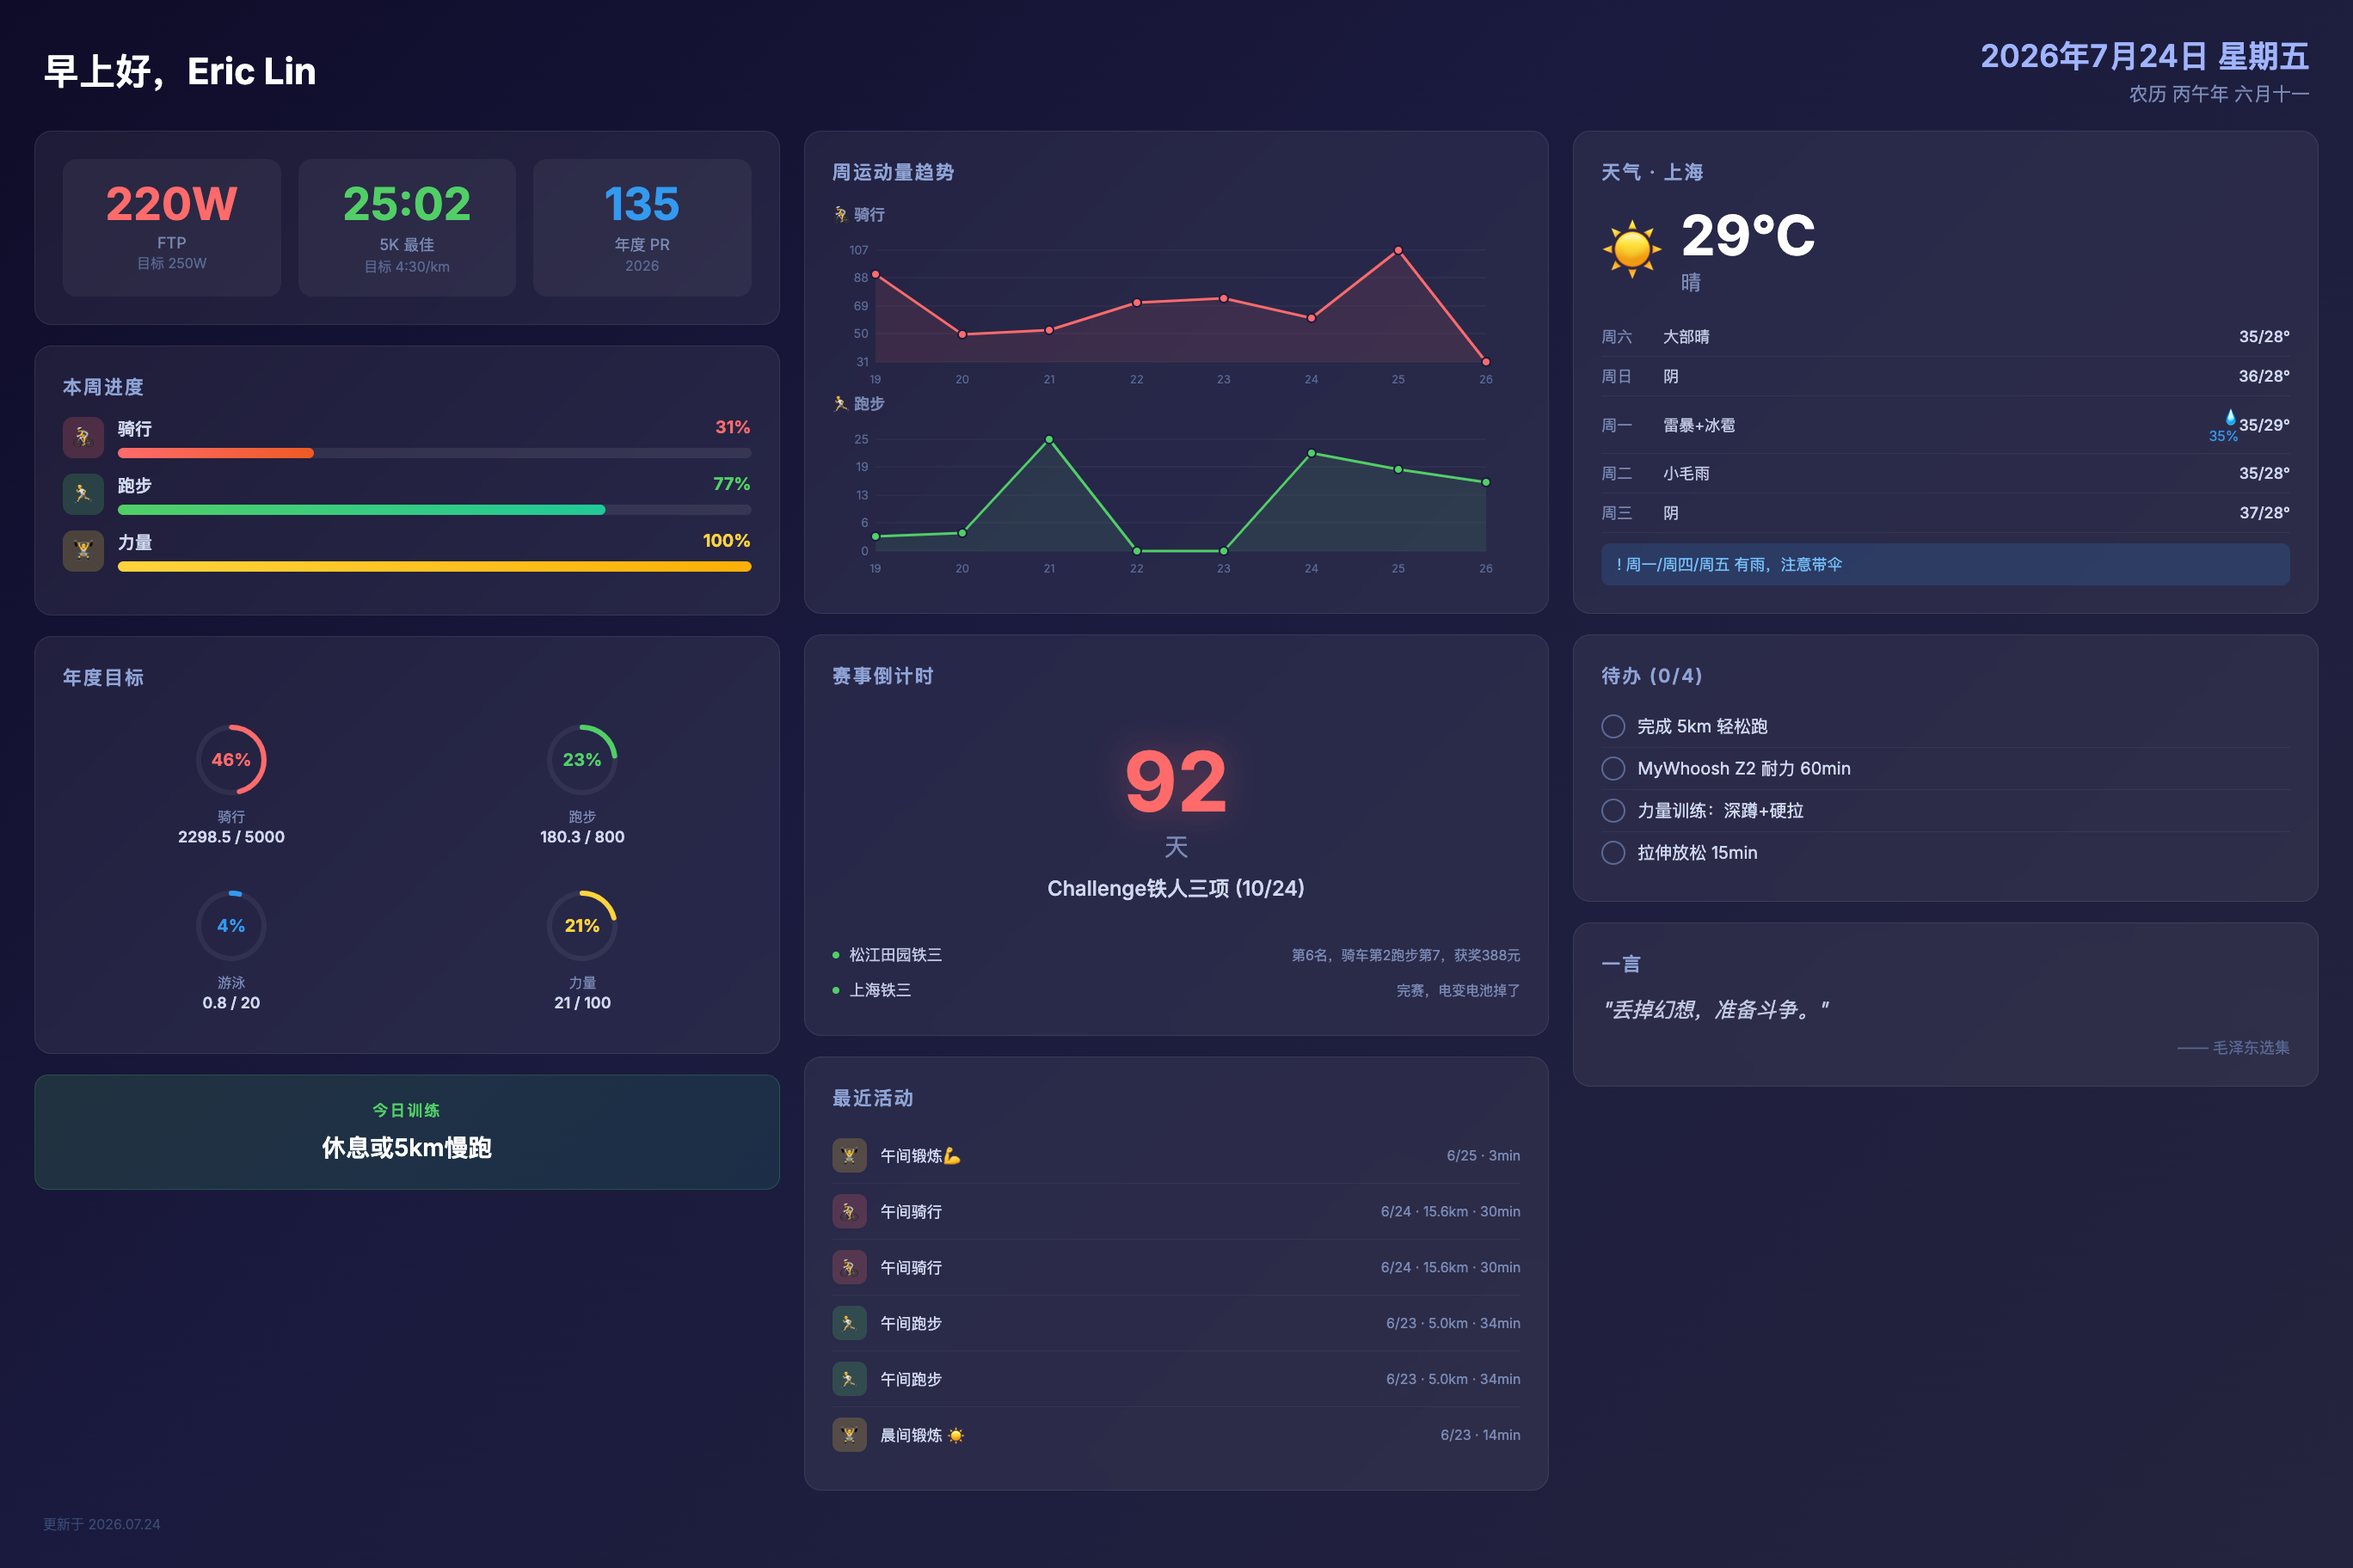
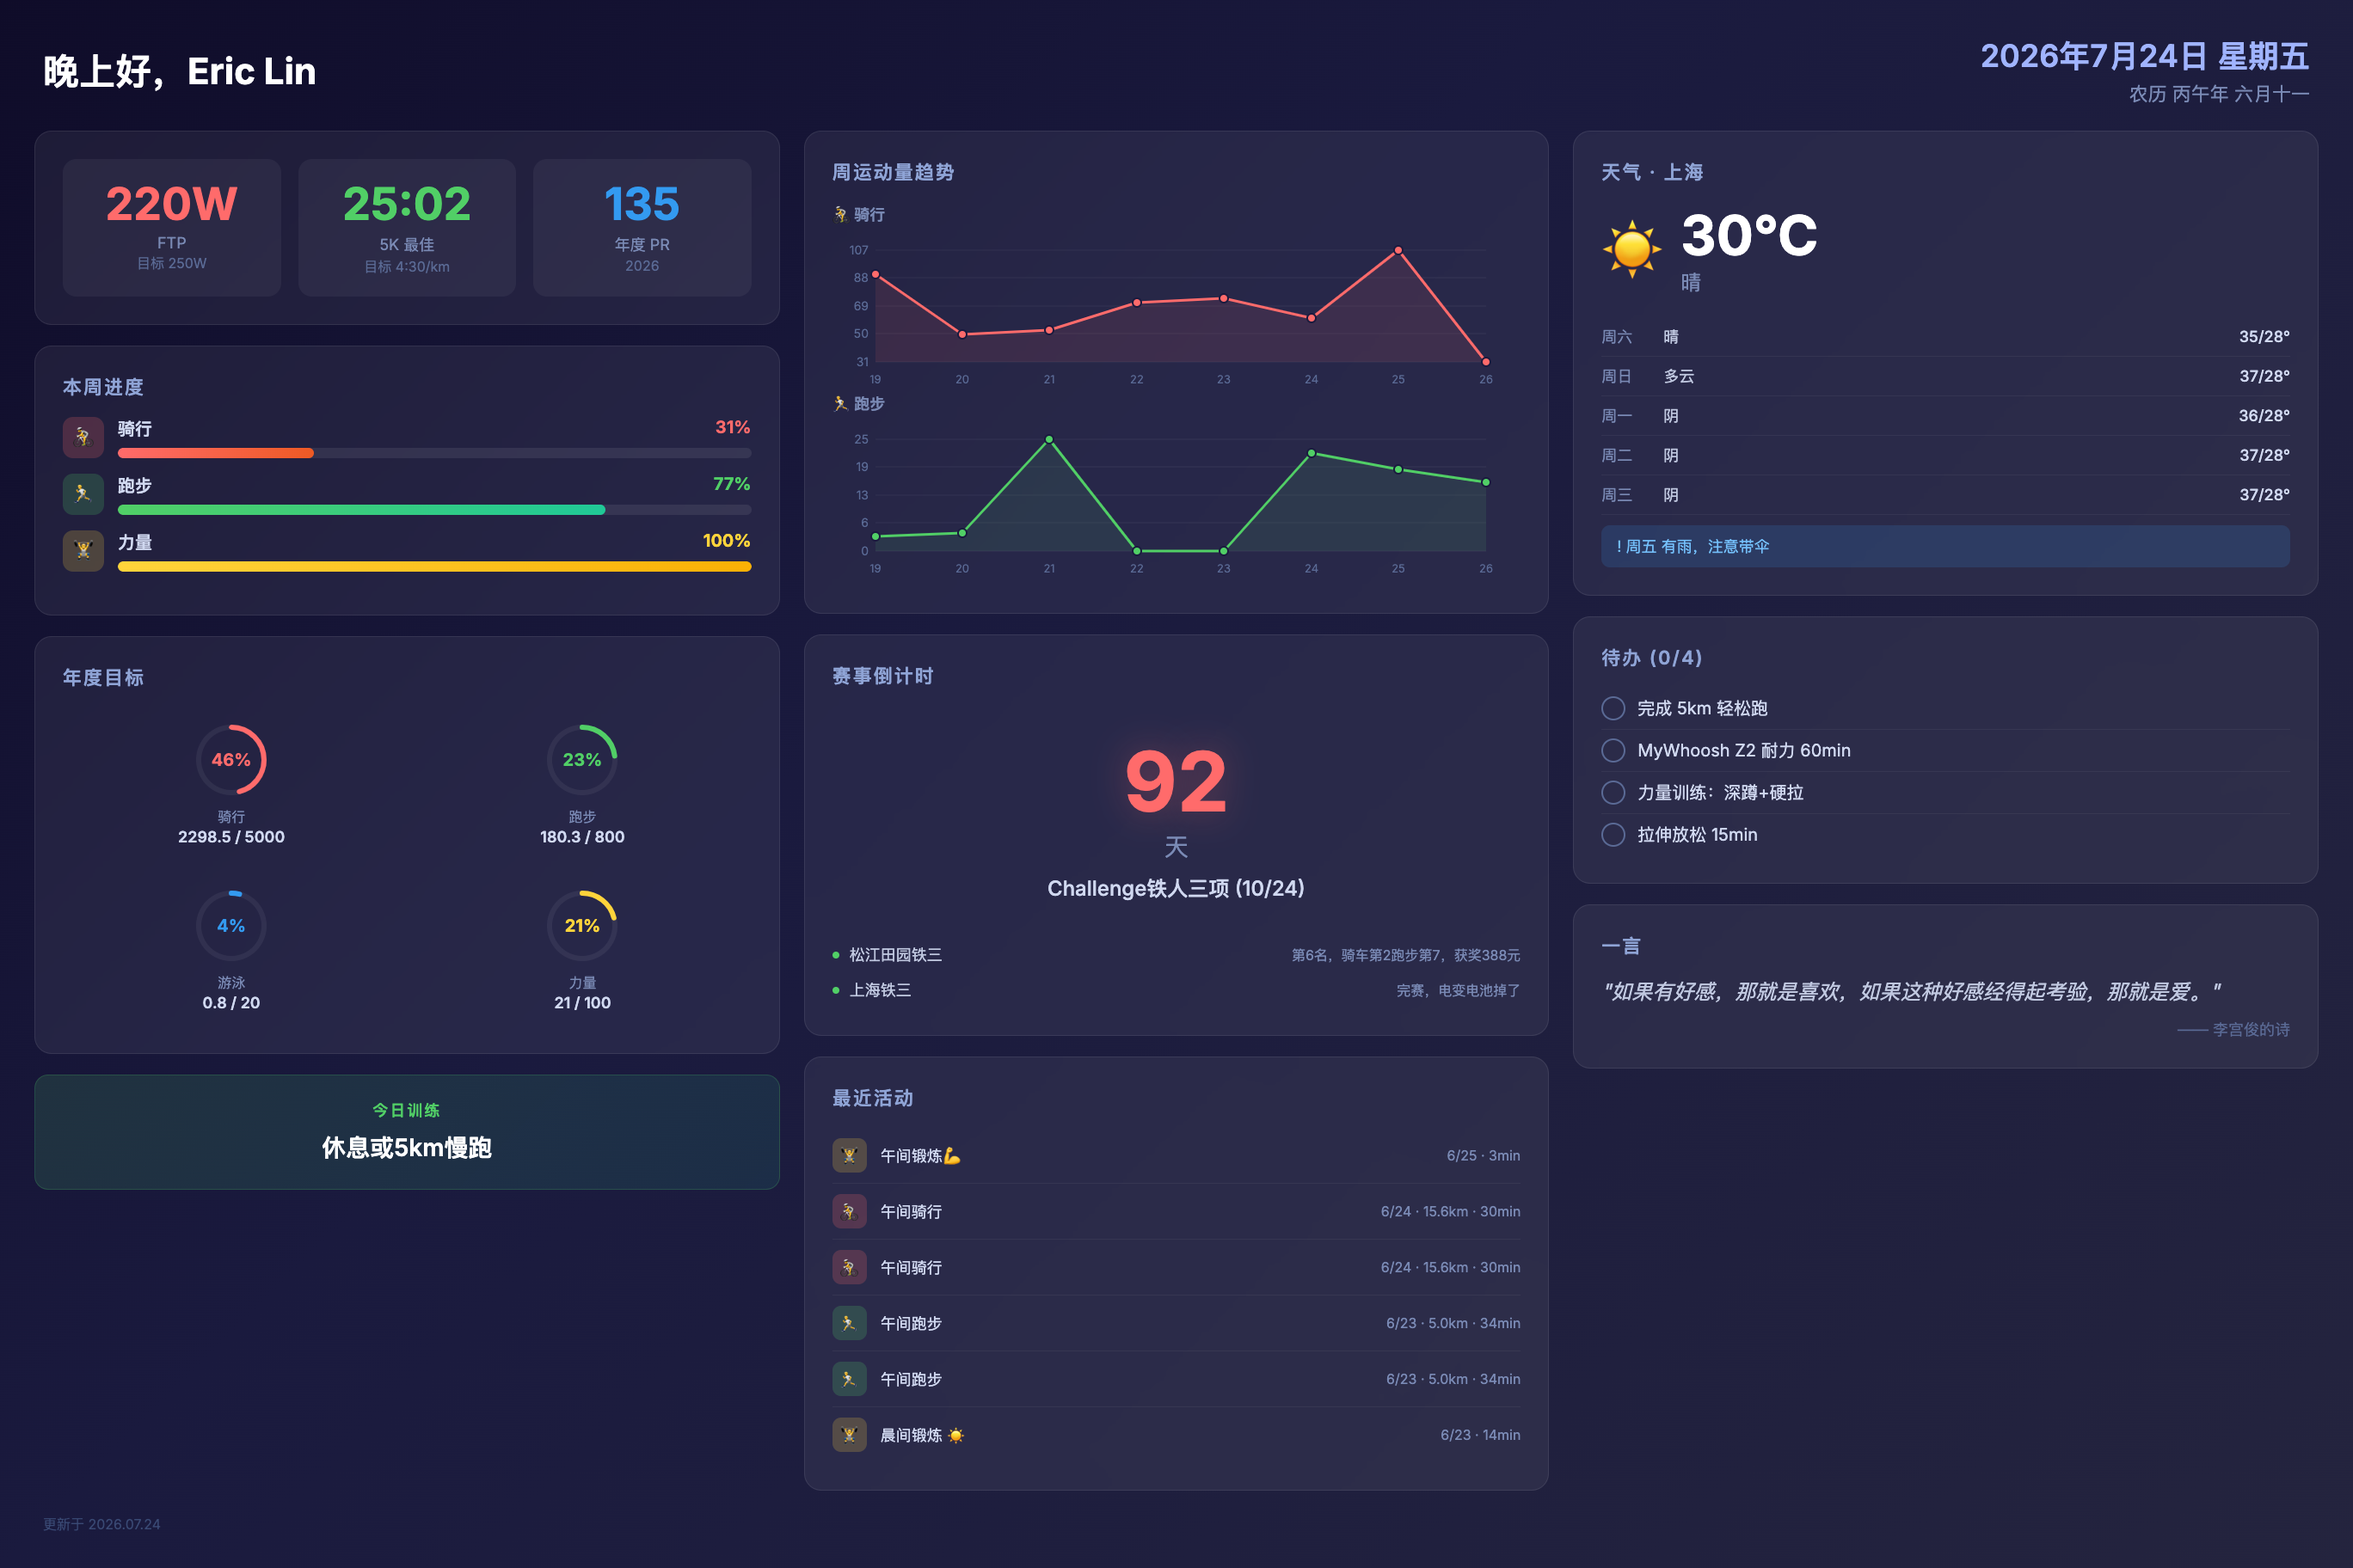
deploy: 2026-07-24-20:00

diff --git a/screensaver.html b/screensaver.html
@@ -490,7 +490,7 @@ html, body {
 <!-- ===== TOP BAR ===== -->
 <div class="top-bar">
   <div>
-    <div class="greeting">早上好，Eric Lin</div>
+    <div class="greeting">晚上好，Eric Lin</div>
     
   </div>
   <div class="date-info">
@@ -810,7 +810,7 @@ html, body {
     <div class="weather-current">
       <div class="weather-icon-big">☀</div>
       <div>
-        <div class="weather-temp-big">29°C</div>
+        <div class="weather-temp-big">30°C</div>
         <div class="weather-desc">晴</div>
       </div>
     </div>
@@ -818,30 +818,30 @@ html, body {
     
     <div class="forecast-row">
       <div class="forecast-day">周六</div>
-      <div class="forecast-desc">大部晴</div>
+      <div class="forecast-desc">晴</div>
       <div class="forecast-precip"></div>
       <div class="forecast-range">35/28°</div>
     </div>
     
     <div class="forecast-row">
       <div class="forecast-day">周日</div>
+      <div class="forecast-desc">多云</div>
+      <div class="forecast-precip"></div>
+      <div class="forecast-range">37/28°</div>
+    </div>
+    
+    <div class="forecast-row">
+      <div class="forecast-day">周一</div>
       <div class="forecast-desc">阴</div>
       <div class="forecast-precip"></div>
       <div class="forecast-range">36/28°</div>
     </div>
     
     <div class="forecast-row">
-      <div class="forecast-day">周一</div>
-      <div class="forecast-desc">雷暴+冰雹</div>
-      <div class="forecast-precip">💧35%</div>
-      <div class="forecast-range">35/29°</div>
-    </div>
-    
-    <div class="forecast-row">
       <div class="forecast-day">周二</div>
-      <div class="forecast-desc">小毛雨</div>
+      <div class="forecast-desc">阴</div>
       <div class="forecast-precip"></div>
-      <div class="forecast-range">35/28°</div>
+      <div class="forecast-range">37/28°</div>
     </div>
     
     <div class="forecast-row">
@@ -853,7 +853,7 @@ html, body {
     
     
     
-    <div class="rain-alert">! 周一/周四/周五 有雨，注意带伞</div>
+    <div class="rain-alert">! 周五 有雨，注意带伞</div>
     
   </div>
   
@@ -902,9 +902,9 @@ html, body {
   
   <div class="card">
     <div class="card-title">一言</div>
-    <div class="quote-text">"丢掉幻想，准备斗争。"</div>
+    <div class="quote-text">"如果有好感，那就是喜欢，如果这种好感经得起考验，那就是爱。"</div>
     
-    <div class="quote-from">—— 毛泽东选集</div>
+    <div class="quote-from">—— 李宫俊的诗</div>
     
   </div>
   

diff --git a/life.html b/life.html
@@ -138,7 +138,7 @@ html, body {
   <table class="weather-table">
     <tr>
       <td class="weather-icon">*</td>
-      <td class="weather-temp">29°C</td>
+      <td class="weather-temp">30°C</td>
       <td class="weather-desc">晴</td>
     </tr>
   </table>
@@ -148,29 +148,29 @@ html, body {
     <tr>
       <td class="forecast-day">周六</td>
       <td class="forecast-icon">*</td>
-      <td>大部晴</td>
+      <td>晴</td>
       <td class="forecast-range">35/28°C</td>
     </tr>
     
     <tr>
       <td class="forecast-day">周日</td>
       <td class="forecast-icon">~</td>
+      <td>多云</td>
+      <td class="forecast-range">37/28°C</td>
+    </tr>
+    
+    <tr>
+      <td class="forecast-day">周一</td>
+      <td class="forecast-icon">~</td>
       <td>阴</td>
       <td class="forecast-range">36/28°C</td>
     </tr>
     
     <tr>
-      <td class="forecast-day">周一</td>
-      <td class="forecast-icon">!</td>
-      <td>雷暴+冰雹</td>
-      <td class="forecast-range">35/29°C</td>
-    </tr>
-    
-    <tr>
       <td class="forecast-day">周二</td>
-      <td class="forecast-icon">.</td>
-      <td>小毛雨</td>
-      <td class="forecast-range">35/28°C</td>
+      <td class="forecast-icon">~</td>
+      <td>阴</td>
+      <td class="forecast-range">37/28°C</td>
     </tr>
     
     <tr>
@@ -182,22 +182,22 @@ html, body {
     
     <tr>
       <td class="forecast-day">周四</td>
-      <td class="forecast-icon">!</td>
-      <td>雷暴</td>
-      <td class="forecast-range">37/29°C</td>
+      <td class="forecast-icon">~</td>
+      <td>阴</td>
+      <td class="forecast-range">40/28°C</td>
     </tr>
     
     <tr>
       <td class="forecast-day">周五</td>
       <td class="forecast-icon">.</td>
       <td>小毛雨</td>
-      <td class="forecast-range">40/30°C</td>
+      <td class="forecast-range">34/29°C</td>
     </tr>
     
   </table>
   
   
-  <div class="rain-alert">! 周一/周四/周五 有雨，注意带伞</div>
+  <div class="rain-alert">! 周五 有雨，注意带伞</div>
   
 </div>
 
@@ -261,9 +261,9 @@ html, body {
 
 <div class="box">
   <p class="section-title">💬 一言</p>
-  <p class="quote-text">丢掉幻想，准备斗争。</p>
+  <p class="quote-text">如果有好感，那就是喜欢，如果这种好感经得起考验，那就是爱。</p>
   
-  <p class="quote-from">—— 毛泽东选集</p>
+  <p class="quote-from">—— 李宫俊的诗</p>
   
 </div>
 
